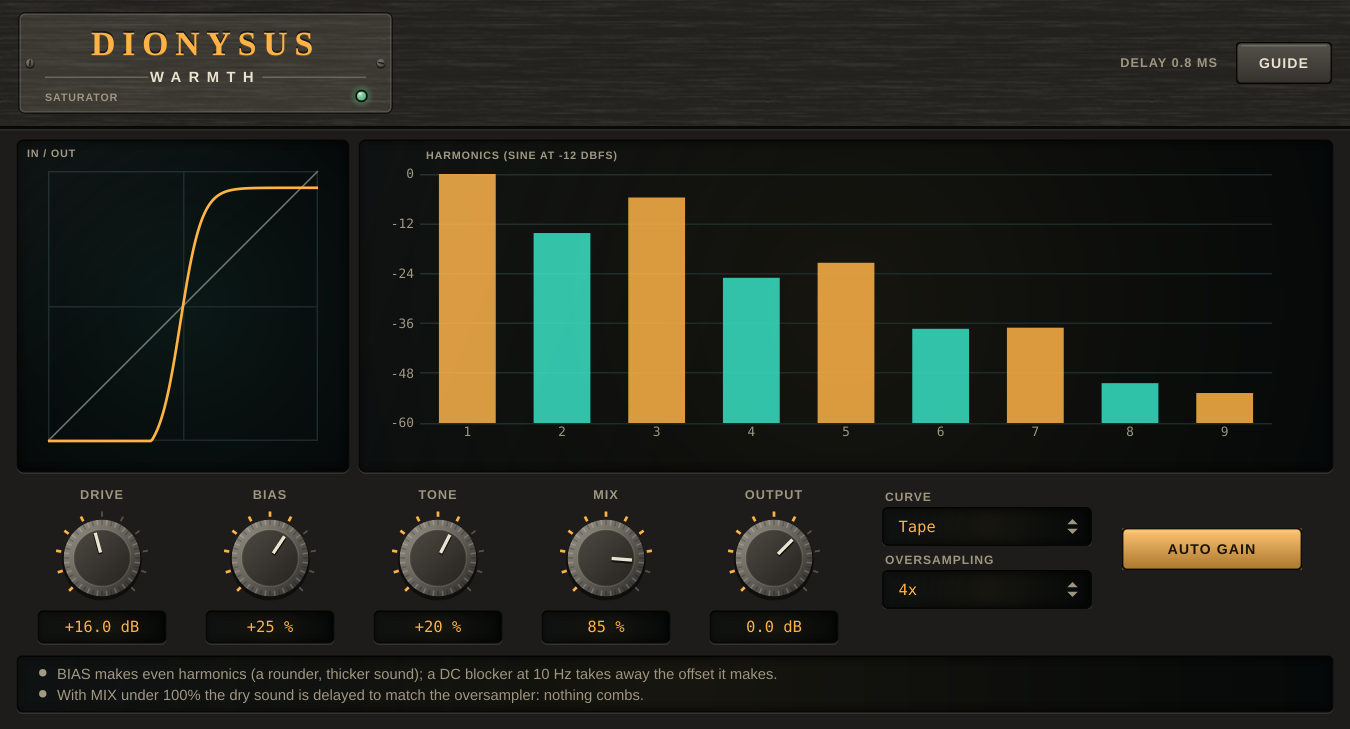
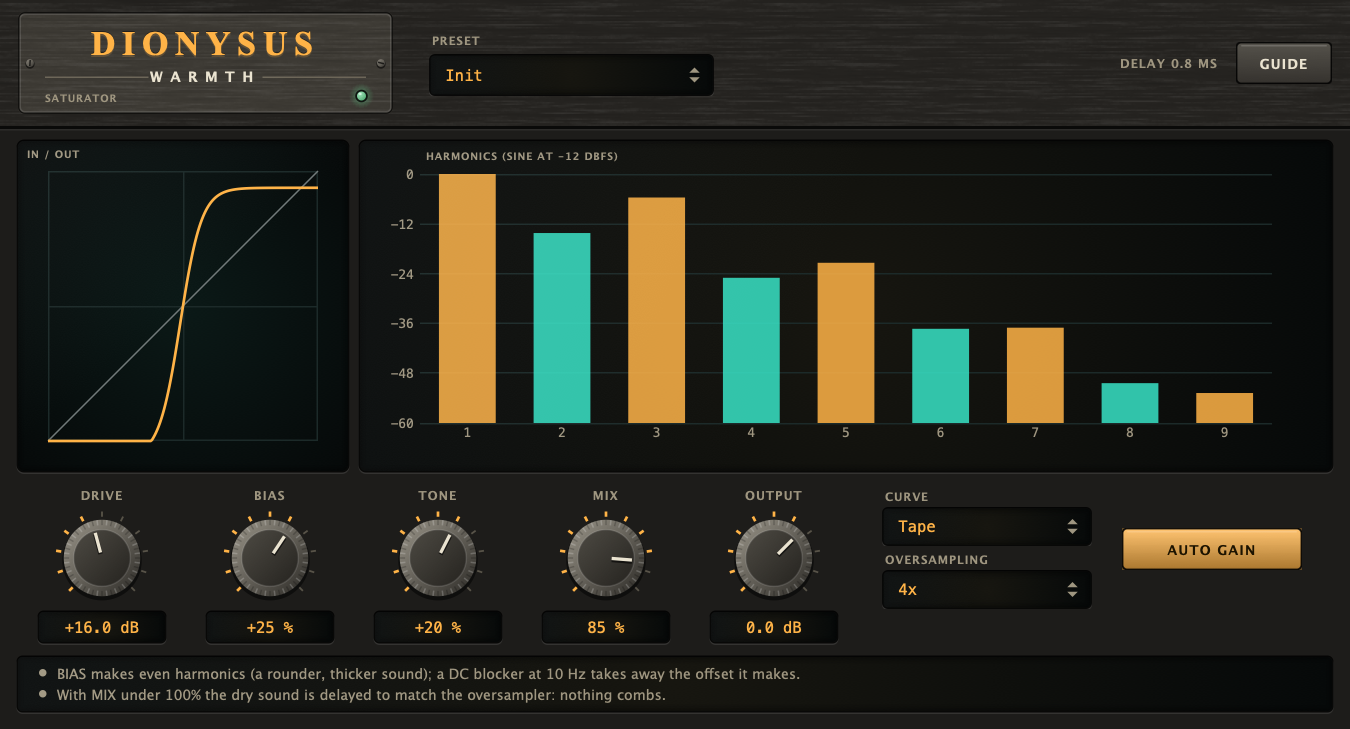
Dionysus: eight presets
Tape Warmth, Tube Glow, Transformer Thick, Parallel Grit, Bass Harmonics, Fold Fuzz, Hard Clip Edge; each sets its oversampling. README and CLAUDE.md say it builds on macOS and passes auval (by hand).

diff --git a/plugins/dionysus/Tests/UiCheck.cpp b/plugins/dionysus/Tests/UiCheck.cpp
@@ -126,5 +126,46 @@ int main()
         check (! tooLong, "every note fits a line of the strip");
     }
 
+    // Presets: each applies, has a name and a one-line purpose, the chosen one is kept with the session, and the box is in the header.
+    {
+        DionysusProcessor q;
+        q.setPlayConfigDetails (2, 2, 48000.0, 512);
+        q.prepareToPlay (48000.0, 512);
+        bool all = q.getNumPrograms() == (int) presets().size() && q.getNumPrograms() >= 6;
+        for (int i = 0; i < q.getNumPrograms(); ++i)
+        {
+            q.setCurrentProgram (i);
+            const auto len = std::strlen (presets()[(size_t) i].purpose);
+            all = all && q.getProgramName (i).isNotEmpty() && q.getCurrentProgram() == i && len > 20 && len <= 140;
+        }
+        check (all, fmt ("all %d presets apply, have a name and a one-line purpose", q.getNumPrograms()));
+        const auto indexOf = [&] (const char* name)
+        {
+            for (int i = 0; i < q.getNumPrograms(); ++i)
+                if (q.getProgramName (i) == name)
+                    return i;
+            check (false, std::string ("a preset called ") + name);
+            return 0;
+        };
+        const auto raw = [&] (const juce::String& pid) { return q.apvts.getRawParameterValue (pid)->load(); };
+        q.setCurrentProgram (indexOf ("Fold Fuzz"));
+        check ((int) raw (id::shape) == 4 && (int) raw (id::oversampling) == 3 && std::fabs (raw (id::mix) - 60.0f) < 0.5f, "Fold Fuzz: the fold curve, 8x oversampling, 60% mix");
+        q.setCurrentProgram (0);
+        check ((int) raw (id::shape) == 0 && (int) raw (id::oversampling) == 1 && std::fabs (raw (id::mix) - 100.0f) < 0.5f && std::fabs (raw (id::drive) - 12.0f) < 0.1f, "Init is the defaults");
+        const int chosen = indexOf ("Parallel Grit");
+        q.setCurrentProgram (chosen);
+        check ((int) raw (id::shape) == 3 && std::fabs (raw (id::mix) - 30.0f) < 0.5f, "Parallel Grit: the diode curve under the dry sound");
+        juce::MemoryBlock saved;
+        q.getStateInformation (saved);
+        DionysusProcessor other;
+        other.setStateInformation (saved.getData(), (int) saved.getSize());
+        check (other.getCurrentProgram() == chosen, "the chosen preset is saved with the session");
+        std::unique_ptr<juce::AudioProcessorEditor> holder (q.createEditor());
+        auto& editor = ui::innerOf<DionysusEditor> (*holder);
+        editor.setVisible (true);
+        check (editor.presetBox.getNumItems() == q.getNumPrograms() && editor.presetBox.getSelectedId() == chosen + 1, "the editor's preset box lists the presets and shows the current one");
+        check (editor.presetBox.getRight() < editor.getWidth() && ! editor.presetBox.getBounds().intersects (editor.guideButton.getBounds()), "the preset box fits the header beside the GUIDE button");
+    }
+
     return test::finish ("DionysusUiCheck");
 }

diff --git a/plugins/dionysus/Source/Presets.h b/plugins/dionysus/Source/Presets.h
@@ -1,0 +1,36 @@
+// SPDX-License-Identifier: AGPL-3.0-or-later
+// Copyright (C) 2026 The Pantheon authors
+
+#pragma once
+
+#include "Parameters.h"
+#include <pantheon/ui/Presets.h>
+
+// Starting points for the sounds a saturator is most often used for. A preset sets every control, oversampling included (a hard curve needs it); what it does
+// not list is back at its default. AUTO GAIN is on by default, so a preset can be judged at the level it started at: turn it off to hear the drive's loudness too.
+namespace dionysus
+{
+inline const std::vector<ui::Preset>& presets()
+{
+    // The curve is a choice: 0 Tape, 1 Tube, 2 Transformer, 3 Diode, 4 Fold, 5 Clip. Oversampling: 0 Off, 1 2x, 2 4x, 3 8x.
+    static const std::vector<ui::Preset> list
+    {
+        { "Init", {}, "The starting point: 12 dB of drive into the tape curve, no bias, no tilt, 100% mix, AUTO GAIN on, 2x oversampling." },
+        { "Tape Warmth", { { id::drive, 8.0f }, { id::shape, 0.0f }, { id::tone, -8.0f }, { id::oversampling, 1.0f } },
+          "Gentle odd harmonics and a little top rolled off: warmth on a bus or a mix. Judge it with AUTO GAIN on, at the same level." },
+        { "Tube Glow", { { id::drive, 10.0f }, { id::shape, 1.0f }, { id::bias, 20.0f }, { id::oversampling, 1.0f } },
+          "A soft onset and some even harmonics from the bias: a rounder, thicker vocal or synth. More drive gets harsher, not warmer." },
+        { "Transformer Thick", { { id::drive, 12.0f }, { id::shape, 2.0f }, { id::tone, -5.0f }, { id::oversampling, 2.0f } },
+          "A cubic curve with a strong 3rd harmonic: weight for drums or a bass. At 12 dB it is dense; lower DRIVE for a lighter touch." },
+        { "Parallel Grit", { { id::drive, 22.0f }, { id::shape, 3.0f }, { id::mix, 30.0f }, { id::oversampling, 2.0f } },
+          "Hard, uneven saturation blended under the dry sound: bite that keeps the transients. Set MIX by ear; DRIVE is only the edge." },
+        { "Bass Harmonics", { { id::drive, 14.0f }, { id::shape, 1.0f }, { id::tone, -25.0f }, { id::mix, 45.0f }, { id::oversampling, 1.0f } },
+          "Harmonics on a bass or an 808 so it can be heard on small speakers. The tilt keeps the added highs down." },
+        { "Fold Fuzz", { { id::drive, 24.0f }, { id::shape, 4.0f }, { id::mix, 60.0f }, { id::oversampling, 3.0f } },
+          "Wave-folding for a synth or a guitar: peaks turn back on themselves. It is distortion, not warmth; 8x oversampling holds the aliasing down." },
+        { "Hard Clip Edge", { { id::drive, 10.0f }, { id::shape, 5.0f }, { id::oversampling, 2.0f } },
+          "Peaks cut flat, as a clipper does: edge and level on drums. It is not a limiter (Aegis limits) and it aliases without oversampling." },
+    };
+    return list;
+}
+} // namespace dionysus

diff --git a/plugins/dionysus/Source/PluginEditor.cpp b/plugins/dionysus/Source/PluginEditor.cpp
@@ -30,10 +30,11 @@ DionysusEditor::DionysusEditor (DionysusProcessor& p)
                     "Runs the curve at 2, 4 or 8 times the sample rate, so the harmonics above half the rate do not fold back as tones that were never there. Adds a delay (the host compensates) "
                     "and processor load; the dry sound is delayed to match. Changing it while playing restarts the saturator."),
       autoGain (p.apvts, id::autoGain, "AUTO GAIN", "Keeps the loudness of the sound the same whatever DRIVE is (measured on a sine at -12 dBFS), so you judge the tone, not the level."),
+      presetBox (p, presets(), "Everything is set by a preset, oversampling included."),
       proc (p)
 {
     setLookAndFeel (&look);
-    for (auto* c : std::initializer_list<juce::Component*> { &drive, &bias, &tone, &mix, &out, &shape, &oversampling, &autoGain, &guideButton })
+    for (auto* c : std::initializer_list<juce::Component*> { &drive, &bias, &tone, &mix, &out, &shape, &oversampling, &autoGain, &presetBox, &guideButton })
         addAndMakeVisible (*c);
     startTimerHz (kTimerHz);
     setSize (kWidth, headerHeight + 10 + displayHeight + 8 + cellHeight + 8 + ui::kNoteStripHeight + 12);
@@ -49,6 +50,10 @@ void DionysusEditor::resized()
     guideButton.setBounds (header.removeFromRight (64).withSizeKeepingCentre (64, 28));
     header.removeFromRight (12);
     latencyLabel = header.removeFromRight (120);
+    header.removeFromLeft (24);
+    auto presetRow = header.withTrimmedTop (28).withHeight (28);
+    presetLabel = { presetRow.getX() + 2, presetRow.getY() - 15, 120, 12 };
+    presetBox.setBounds (presetRow.removeFromLeft (190));
 
     bounds.removeFromTop (10);
     auto display = bounds.removeFromTop (displayHeight);
@@ -86,6 +91,7 @@ void DionysusEditor::paint (juce::Graphics& g)
     g.fillAll (colours::background);
     hw::drawHeaderPlate (g, getLocalBounds().removeFromTop (headerHeight).toFloat());
     hw::drawNameplate (g, nameplate, gui::kProjectWord, gui::kPluginWord, "Saturator", level > 0.001f, 25.0f);
+    hw::drawLabel (g, "Preset", presetLabel, juce::Justification::left, colours::dim, 9.0f);
     hw::drawLabel (g, "Curve", shapeLabel, juce::Justification::left, colours::dim, 9.0f);
     hw::drawLabel (g, "Oversampling", oversamplingLabel, juce::Justification::left, colours::dim, 9.0f);
     const int latency = proc.engine.latencySamples.load();
@@ -155,5 +161,6 @@ void DionysusEditor::paint (juce::Graphics& g)
 void DionysusEditor::timerCallback()
 {
     level = proc.engine.outPeak.exchange (0.0f);
+    presetBox.sync();
     repaint();
 }

diff --git a/plugins/dionysus/Source/PluginProcessor.h b/plugins/dionysus/Source/PluginProcessor.h
@@ -4,6 +4,7 @@
 #pragma once
 
 #include "Parameters.h"
+#include "Presets.h"
 #include <juce_audio_processors/juce_audio_processors.h>
 
 class DionysusProcessor : public juce::AudioProcessor, private juce::AsyncUpdater
@@ -25,10 +26,10 @@ public:
     bool producesMidi() const override { return false; }
     double getTailLengthSeconds() const override { return 0.0; }
 
-    int getNumPrograms() override { return 1; }
-    int getCurrentProgram() override { return 0; }
-    void setCurrentProgram (int) override {}
-    const juce::String getProgramName (int) override { return "Default"; }
+    int getNumPrograms() override { return programs.count(); }
+    int getCurrentProgram() override { return programs.current(); }
+    void setCurrentProgram (int index) override { programs.set (index); }
+    const juce::String getProgramName (int index) override { return programs.name (index); }
     void changeProgramName (int, const juce::String&) override {}
 
     void getStateInformation (juce::MemoryBlock&) override;
@@ -36,6 +37,7 @@ public:
 
     dionysus::Engine engine;
     juce::AudioProcessorValueTreeState apvts;
+    ui::Programs programs { apvts, dionysus::presets() }; // after apvts
 
 private:
     // The latency can move with a setting; setLatencySamples belongs to the message thread, so the audio thread only asks for it.

diff --git a/plugins/dionysus/Source/PluginEditor.h b/plugins/dionysus/Source/PluginEditor.h
@@ -21,6 +21,7 @@ public:
     ui::Knob drive, bias, tone, mix, out;
     ui::Choice shape, oversampling;
     ui::Toggle autoGain;
+    ui::PresetBox presetBox;
     ui::GuideButton guideButton { dionysus::guideTitle(), dionysus::guideText() };
     juce::TextButton& guide() noexcept { return guideButton; }
     std::vector<ui::Note> notes() const { return dionysus::adviceFor (adviceInput()); } // what the strip under the controls says, for the checks
@@ -32,7 +33,7 @@ private:
     DionysusProcessor& proc;
     HardwareLookAndFeel look;
     juce::TooltipWindow tooltips { this, 600 };
-    juce::Rectangle<int> nameplate, curveArea, harmonicArea, shapeLabel, oversamplingLabel, latencyLabel, noteStrip;
+    juce::Rectangle<int> nameplate, presetLabel, curveArea, harmonicArea, shapeLabel, oversamplingLabel, latencyLabel, noteStrip;
     float level = 0.0f;
 
     JUCE_DECLARE_NON_COPYABLE_WITH_LEAK_DETECTOR (DionysusEditor)

diff --git a/plugins/dionysus/Source/PluginProcessor.cpp b/plugins/dionysus/Source/PluginProcessor.cpp
@@ -59,6 +59,7 @@ void DionysusProcessor::processBlock (juce::AudioBuffer<float>& buffer, juce::Mi
 
 void DionysusProcessor::getStateInformation (juce::MemoryBlock& dest)
 {
+    programs.saveTo (apvts.state);
     if (auto xml = apvts.copyState().createXml())
         copyXmlToBinary (*xml, dest);
 }
@@ -67,7 +68,10 @@ void DionysusProcessor::setStateInformation (const void* data, int size)
 {
     if (auto xml = getXmlFromBinary (data, size))
         if (xml->hasTagName (apvts.state.getType()))
+        {
             apvts.replaceState (juce::ValueTree::fromXml (*xml));
+            programs.loadFrom (apvts.state);
+        }
 }
 
 juce::AudioProcessorEditor* DionysusProcessor::createEditor() { return new ui::ScaledEditor<DionysusEditor> (*this, apvts.state, *this); }

diff --git a/plugins/dionysus/CLAUDE.md b/plugins/dionysus/CLAUDE.md
@@ -12,7 +12,7 @@ cmake --build build --target DionysusUiCheck && ./build/DionysusUiCheck_artefact
 cmake --build build --target DionysusSnapshot && ./build/DionysusSnapshot_artefacts/Release/DionysusSnapshot docs/screenshot.png
 ```
 
-- Building the plugin targets does **not** install them (`DIONYSUS_INSTALL_AFTER_BUILD`, off by default).
+- Building the plugin targets does **not** install them (`DIONYSUS_INSTALL_AFTER_BUILD`, off by default; a build folder configured with it ON does: check the cache). `scripts/build.sh dionysus` is the way to build and check (see the repository's CLAUDE.md).
 - `DionysusTests`, `UiCheck` and `Snapshot` are `EXCLUDE_FROM_ALL`; build them by name. `Source/DSP` has no JUCE in it, so the DSP tests also compile with
   `g++ -std=c++20 -O2 -I../../shared/dsp/include -ISource -ITests Tests/Tests.cpp` (a quick loop); run them also with `-O3 -march=native` and with `-O3 -ffast-math`, each on its own.
 - Definition of done for a DSP change: `DionysusTests` passes **and** the numbers the README quotes still match its output.
@@ -24,6 +24,7 @@ cmake --build build --target DionysusSnapshot && ./build/DionysusSnapshot_artefa
 Source/DSP/Shapes.h        the curves, saturate() (curve + bias), harmonicsDb() (what the editor shows), compensation() (AUTO GAIN)   <- one source for the engine, the display and the tests
 Source/DSP/Oversampler.h   HalfbandStage (one doubling), Oversampler (the chain of one channel), oversamplingLatency()
 Source/DSP/Engine.h        the signal path: drive, the oversampler around the curve, DC block, tone, the delayed dry sound, mix, output
+Source/Presets.h           the presets (settings, names, one-line purposes); the mechanism is `shared/ui/.../Presets.h`
 Source/Advice.h            the notes of the strip under the controls and the GUIDE text; plain C++
 Source/Parameters.h        parameter layout, readParams()                       <- the single source of truth for parameters
 Source/Plugin*.{h,cpp}, Source/UI/   JUCE wrapper and editor (the look is `shared/ui`)
@@ -49,6 +50,9 @@ whenever either is in use (`dcOn`) and is reset while it is not. `compensation()
 
 **Real time.** `Engine::process` allocates and locks nothing; everything is a fixed array or sized in `prepare()` (`configure()` allocates nothing, so a change of oversampling on the audio thread is safe; a change of oversampling restarts the saturator and is reported through `DionysusProcessor::handleAsyncUpdate`).
 **Bad samples:** NaN and infinity are replaced by 0 on the way in.
+
+**Presets** are `ui::Preset`s in `Source/Presets.h` (the settings as real values, a name, a one-line purpose of at most 140 characters); the processor's `ui::Programs` applies them (every parameter that the plugin's `keepsParameter` does not claim goes back to its default first, so a preset does not inherit the last one) and keeps the chosen index in the session's state
+(`program`); the editor's `ui::PresetBox` lists them and `sync()`s with the host. A new parameter needs thinking about in each preset: it goes back to its default unless the preset lists it. UiCheck pins that every preset applies, what one specific preset sets, what is kept, and that the box fits the header.
 
 **Parameters.** Ids (`dionysus::id`) are stored in sessions and automation: never rename or remove one. All are `ParameterID` version 1; a new one needs a higher version, an entry in `readParams()` and a place in the editor.
 The order of `shapeNames` is the order of `Shape`; of `oversamplingNames`, the index of `kOversamplingFactor`.

diff --git a/plugins/dionysus/README.md b/plugins/dionysus/README.md
@@ -20,6 +20,7 @@ a **bias** that adds even harmonics, a **tone** tilt, a parallel **mix**, an **a
 | **Output** | -24 to +12 dB, after everything. |
 | **Auto gain** | On by default: the gain that brings the RMS of a sine at -12 dBFS back to what it was before the curve (the AC part: the DC is taken off). |
 | **Oversampling** | Off, 2x, 4x or 8x: half-band, linear phase (a 65-tap stage and then 33-tap stages), delay 0, 32, 40 or 44 samples. |
+| **Presets** | Eight starting points (Init, Tape Warmth, Tube Glow, Transformer Thick, Parallel Grit, Bass Harmonics, Fold Fuzz, Hard Clip Edge). A preset sets every control, oversampling included; what it does not list goes back to its default. |
 
 ## How it works
 
@@ -57,7 +58,7 @@ a **bias** that adds even harmonics, a **tone** tilt, a parallel **mix**, an **a
   even at 8x.
 - **Oversampling delays the sound** (up to 44 samples) and costs CPU; switching it while playing restarts the saturator (it clicks).
 - Each channel is saturated on its own, so a hard-panned sound stays where it is; the two channels' harmonics are not linked.
-- It has not been built on macOS or run through `auval`, and it has no `HostCheck` (see "Not yet in line" in the repository's [CLAUDE.md](../../CLAUDE.md)).
+- It builds on macOS (VST3 and AU, run by hand on 2026-11-13) and `auval -v` passes for the AU; it is not in a macOS CI job, and it has no `HostCheck` (see "Not yet in line" in the repository's [CLAUDE.md](../../CLAUDE.md)).
 
 ## Building
 
